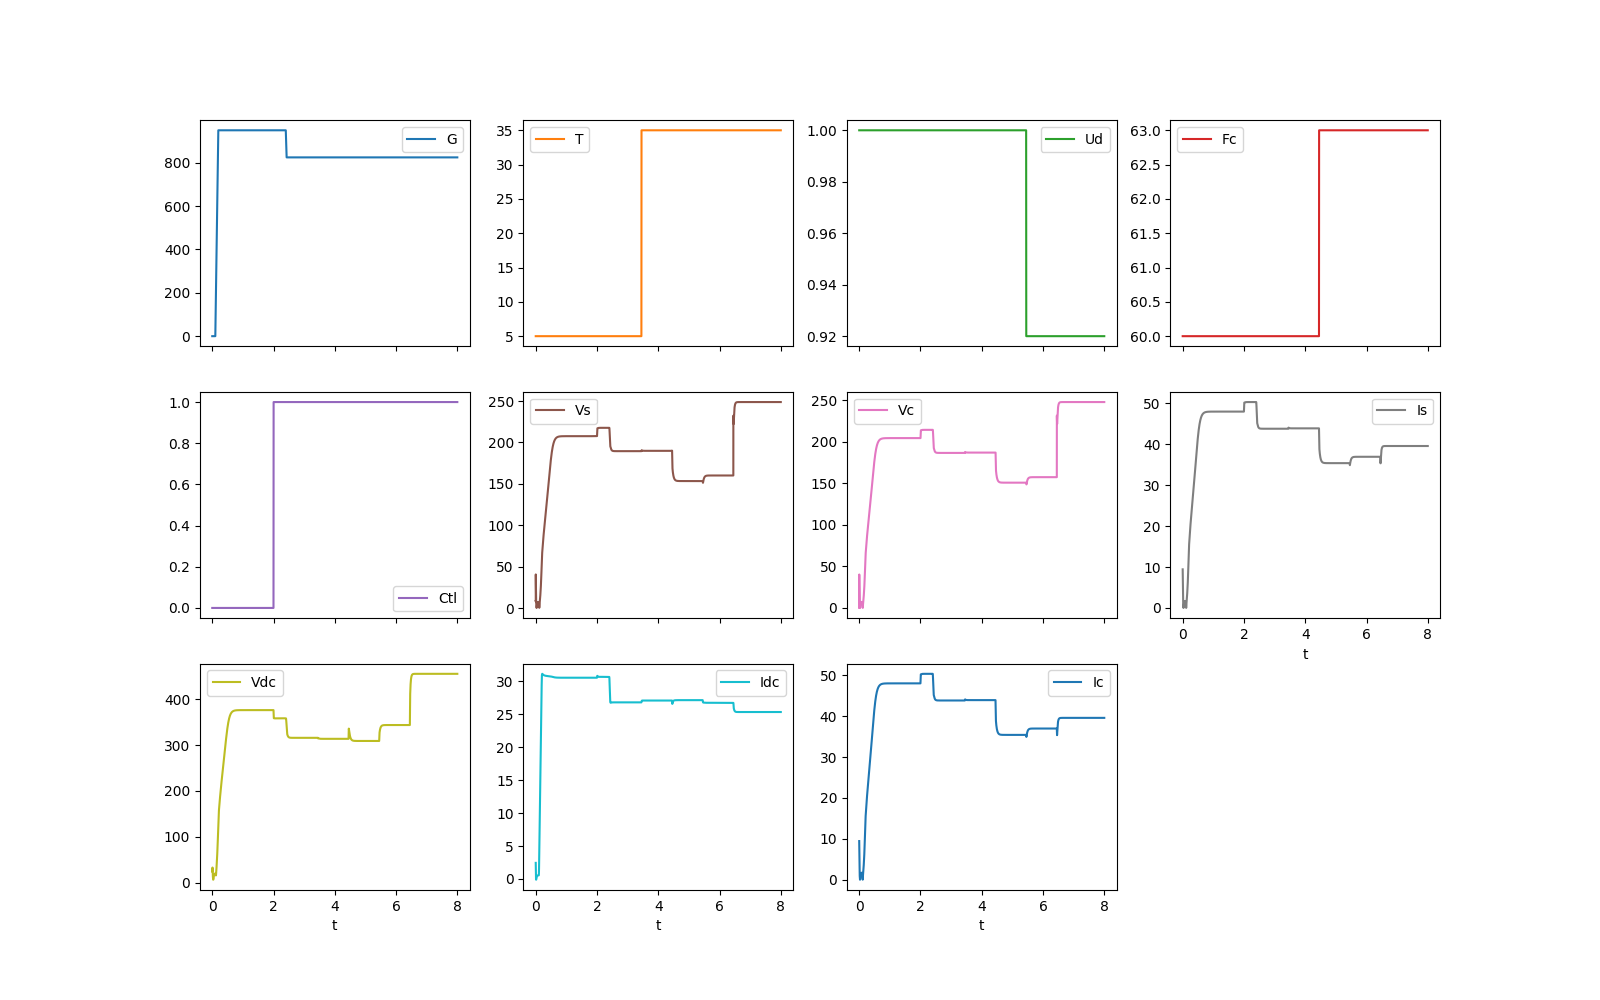
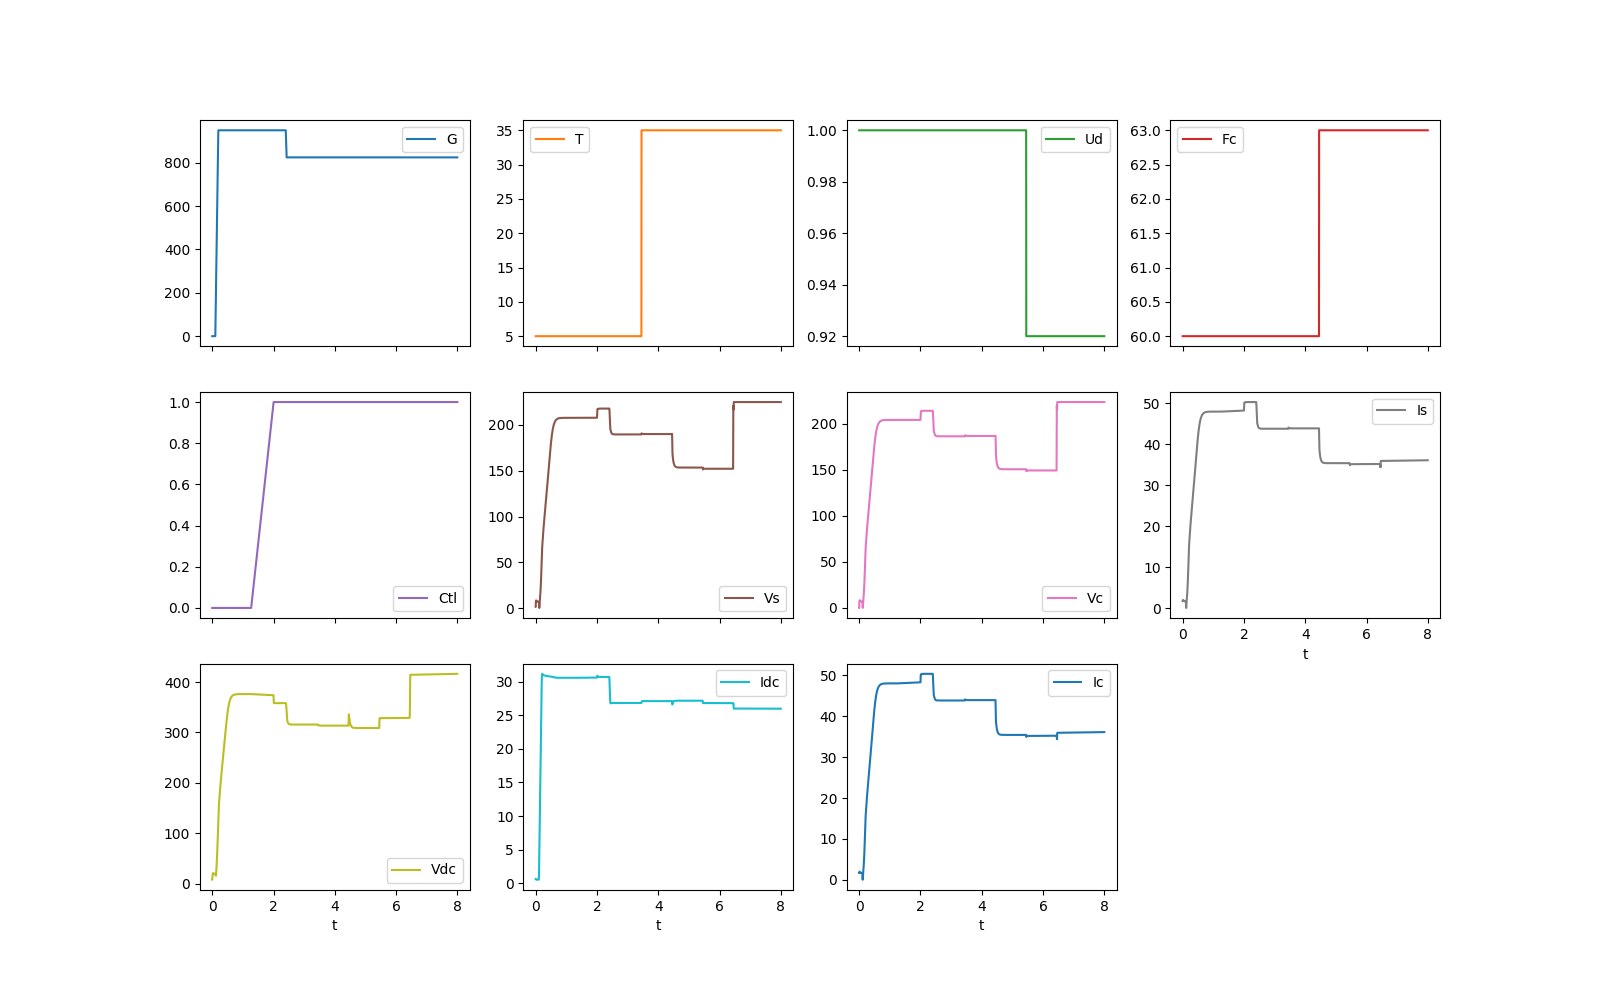
improved initialization of the PV1 HELICS example

diff --git a/src/pecblocks/pv1_poly.py b/src/pecblocks/pv1_poly.py
@@ -520,7 +520,7 @@ class pv1():
   def de_normalize (self, val, fac):
     return val * fac['scale'] + fac['offset']
 
-  def step_simulation (self, G, T, Ud, Fc, Vrms, Mode, GVrms):
+  def step_simulation (self, G, T, Ud, Fc, Vrms, Mode, GVrms, nsteps=1):
     Vc = complex (Vrms+0.0j)
     if self.Lf is not None:
       omega = 2.0*math.pi*Fc
@@ -538,17 +538,18 @@ class pv1():
     ub = torch.tensor ([T, G, Fc, Ud, Vrms, GVrms, Mode], dtype=torch.float)
     with torch.no_grad():
       y_non = self.F1 (ub)
-      self.ysum[:] = 0.0
-      for i in range(self.H1.out_channels):
-        for j in range(self.H1.in_channels):
-          uh = self.uhist[i][j]
-          yh = self.yhist[i][j]
-          uh[1:] = uh[:-1]
-          uh[0] = y_non[j]
-          ynew = np.sum(np.multiply(self.b_coeff[i,j,:], uh)) - np.sum(np.multiply(self.a_coeff[i,j,:], yh))
-          yh[1:] = yh[:-1]
-          yh[0] = ynew
-          self.ysum[i] += ynew
+      for iter in range(nsteps):
+        self.ysum[:] = 0.0
+        for i in range(self.H1.out_channels):
+          for j in range(self.H1.in_channels):
+            uh = self.uhist[i][j]
+            yh = self.yhist[i][j]
+            uh[1:] = uh[:-1]
+            uh[0] = y_non[j]
+            ynew = np.sum(np.multiply(self.b_coeff[i,j,:], uh)) - np.sum(np.multiply(self.a_coeff[i,j,:], yh))
+            yh[1:] = yh[:-1]
+            yh[0] = ynew
+            self.ysum[i] += ynew
       y_lin = torch.tensor (self.ysum, dtype=torch.float)
       y_hat = self.F2 (y_lin)
 

diff --git a/examples/helics/pv1_server.py b/examples/helics/pv1_server.py
@@ -83,6 +83,7 @@ def helics_loop(cfg_filename, hdf5_filename):
   Fc = 0.0
   ctl = 0.0
   ts = 0
+  nsteps = 1000 # for initialization of the model history terms, dt=1ms
   rows = []
   print (sub_G)
   print (sub_T)
@@ -119,7 +120,8 @@ def helics_loop(cfg_filename, hdf5_filename):
     Vrms = abs(Vc)
     GVrms = 0.001 * G * Vrms
     print ('{:6.3f}, Vrms={:.3f}, G={:.1f}, GVrms={:.3f}, T={:.3f}, Ud={:.3f}, Fc={:.3f}'.format(ts, Vrms, G, GVrms, T, Ud, Fc))
-    vdc, idc, irms, Vs, Is = model.step_simulation (G=G, T=T, Ud=Ud, Fc=Fc, Vrms=Vrms, Mode=ctl, GVrms=GVrms)
+    vdc, idc, irms, Vs, Is = model.step_simulation (G=G, T=T, Ud=Ud, Fc=Fc, Vrms=Vrms, Mode=ctl, GVrms=GVrms, nsteps=nsteps)
+    nsteps = 1
     Ic = irms+0j
     if pub_idc is not None:
       helics.helicsPublicationPublishDouble(pub_idc, idc)

diff --git a/examples/helics/README.md b/examples/helics/README.md
@@ -14,12 +14,11 @@ To plot the results shown below:
 
     python pv1_plot.py
 
-The relevant files are:
+The relevant files for a single-phase example are:
 
 - _\*.log_ contains text and debugging output from the HELICS federates
 - _clean.bat_ deletes the log and json files mentioned in this list
-- _flat3.txt_ alternative input stimuli for _helics_player.txt_
-- _helics_player.txt_ read by the _helics_player_, contains weather and control inputs for the simulation
+- _helics_player.txt_ read by the _helics_player_, contains weather and control inputs for the simulation of single-phase PV
 - _kill23404.bat_ helper script to halt a HELICS federation that didn't exit cleanly. Assumes each federate and the broker use port 23404, which is the default. Call this once for each federate that's still running. If a federate refuses to exit (on Windows) just wait about 30 seconds.
 - _list23404.bat_ helper script to list all HELICS federates that are listening to port 23404.
 - _pv1_client.json_ contains HELICS publication, subscription, and other configurations for _pv1_client.py_
@@ -30,16 +29,35 @@ The relevant files are:
 - _pv1_server.hdf5_ output data from _pv1_server.py_ in a Pandas DataFrame
 - _pv1_server.json_ contains HELICS publication, subscription, and other configurations for _pv1_server.py_
 - _pv1_server.py_ is a HELICS federate that subscribes to all weather and control inputs, runs the HW-PV model, and publishes the HW-PV model outputs. In this example, the input and output data are saved from this federate for convenience.
-- _ramp3.txt_ alternative input stimuli for _helics_player.txt_
-- _ucf.txt_ alternative input stimuli for _helics_player.txt_
+- _requirements.txt_ lists the Python modules needed, in addition to _pecblocks_
 
 ![HELICS_Fed](HELICS_Federation.png)
 
 **HELICS Federates and Message Topics**
 
-![HELICS_Sim](pv1_helics.png)
+![HELICS_Sim1](pv1_helics.png)
 
-**System Simulation using HELICS**
+**Single-Phase System Simulation using HELICS**
+
+### Three-phase Example
+
+The relevant files for a three-phase example are:
+
+- _flat3.txt_ alternative input stimuli
+- _pv3_client.json_ contains HELICS publication, subscription, and other configurations for _pv1_client.py_
+- _pv3_client.py_ a HELICS federate that constructs _Vrms_ from _Irms_ and _Rgrid_, and collects the simulation data from _pv1_server.py_. It takes the role of an EMT simulator using the HW-PV model.
+- _pv3_configure_helics.py_ produces _pv3_client.json_, _pv3_server.json_, and _pv3_helics.bat_. Reads _ucf3_fhf_poly.json_ for model information.
+- _pv3_helics.bat_ launches the HELICS broker and three federates (player, client, and server)
+- _pv3_plot.py_ makes a quick plot from _pv3_server.hdf5_
+- _pv3_server.hdf5_ output data from _pv3_server.py_ in a Pandas DataFrame
+- _pv3_server.json_ contains HELICS publication, subscription, and other configurations for _pv3_server.py_
+- _pv3_server.py_ is a HELICS federate that subscribes to all weather and control inputs, runs the HW-PV model, and publishes the HW-PV model outputs. In this example, the input and output data are saved from this federate for convenience.
+- _ramp3.txt_ alternative input stimuli
+- _ucf.txt_ input stimuli for simulation of three-phase PV
+
+![HELICS_Sim3](pv3_helics.png)
+
+**Three-Phase System Simulation using HELICS**
 
 ### License
 
